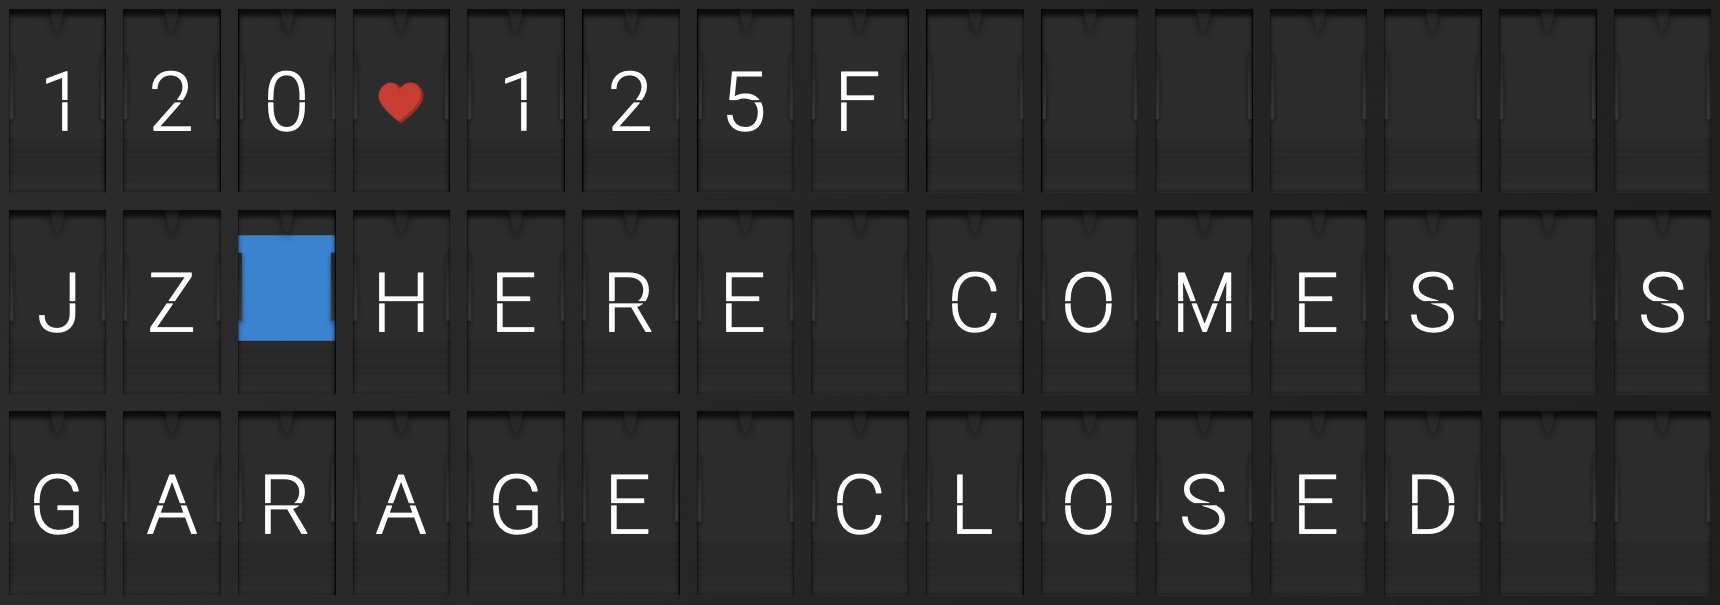
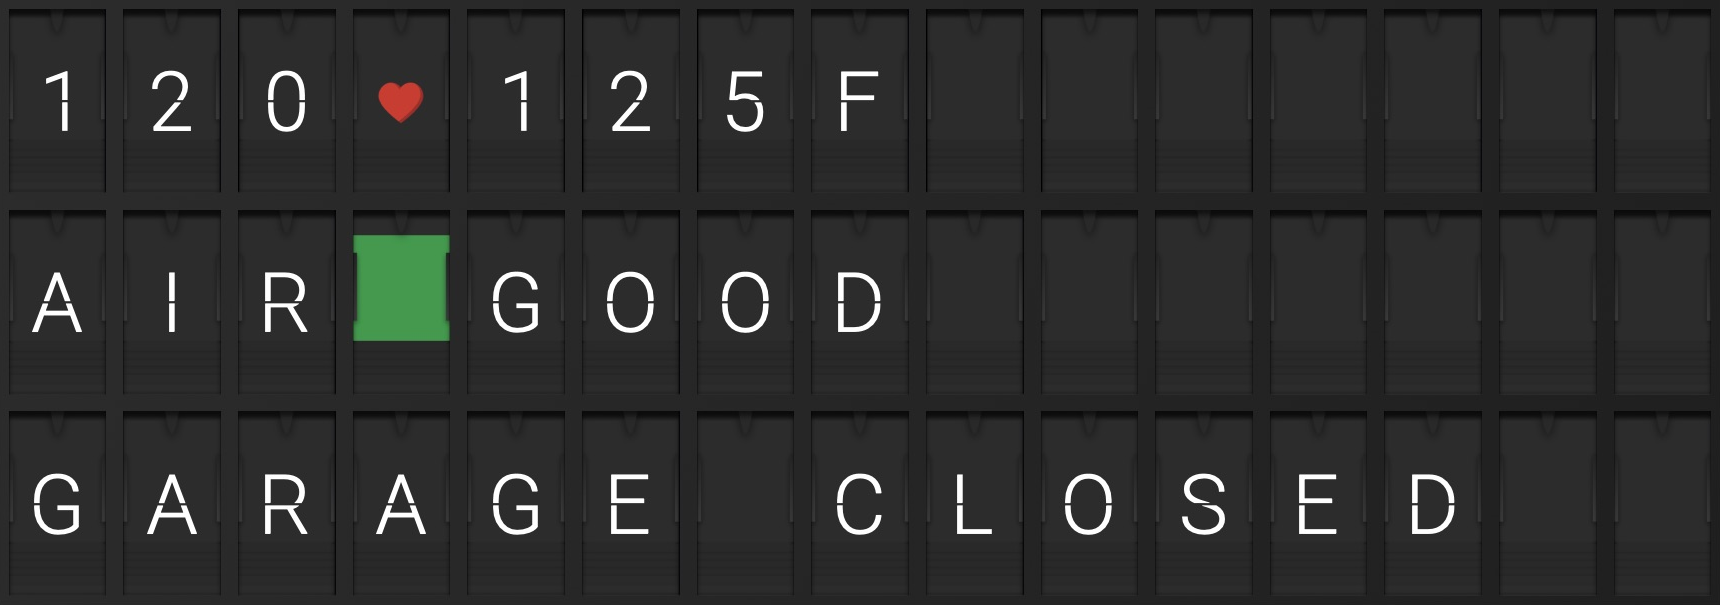
Clarify screenshot provenance and use neutral HA example

diff --git a/README.md b/README.md
@@ -65,6 +65,8 @@ Show up to two quota windows with remaining percentages, reset times, and option
 
 ![Codex weekly and five-hour quota bars with reset times on Vestaboard Note](docs/images/plugin-codex.png)
 
+The bottom row shows the weekly reset date and time, then a heart separator and the five-hour reset time: `10/20-1200♥1500` means October 20 at 12:00 and 15:00, respectively, in the configured time zone.
+
 ### Bar and text rows
 
 Combine a label, colored bar, and right-aligned text in fixed-width areas. Bind all values to attributes of one Home Assistant entity, or choose constants and entity states or attributes separately for each field. Home Assistant owns calculations such as remaining showers; vbmux renders the supplied values. Each row has its own color, widths, placement, and unavailable fallback.
@@ -73,9 +75,11 @@ Combine a label, colored bar, and right-aligned text in fixed-width areas. Bind 
 
 ### HA character blocks
 
-Let Home Assistant supply a flat array of Vestaboard character codes in an attribute of an entity whose state is `ready`. Use independent rectangular blocks for custom symbols, temperature displays, music, or status messages. Optionally append text from the same or another entity, or use a boolean activity attribute to yield space when inactive. Configure block size, placement, priority, and blank or `N/A` fallback in **Plugins → HA character blocks**.
+Let Home Assistant supply a flat array of Vestaboard character codes in an attribute of an entity whose state is `ready`. Use independent rectangular blocks for custom symbols, temperature displays, air quality, or status messages. Optionally append text from the same or another entity, or use a boolean activity attribute to yield space when inactive. Configure block size, placement, priority, and blank or `N/A` fallback in **Plugins → HA character blocks**.
 
-![Home Assistant character blocks showing temperature, music, and garage status on Vestaboard Note](docs/images/plugin-ha-characters.png)
+![Home Assistant character blocks showing temperature, air quality, and garage status on Vestaboard Note](docs/images/plugin-ha-characters.png)
+
+Here HA supplies the temperature characters and heart, an `AIR` label with a green tile and appended `GOOD` text, and a garage status message. These are example HA inputs, not built-in temperature or air-quality calculations.
 
 ## Saved settings
 
